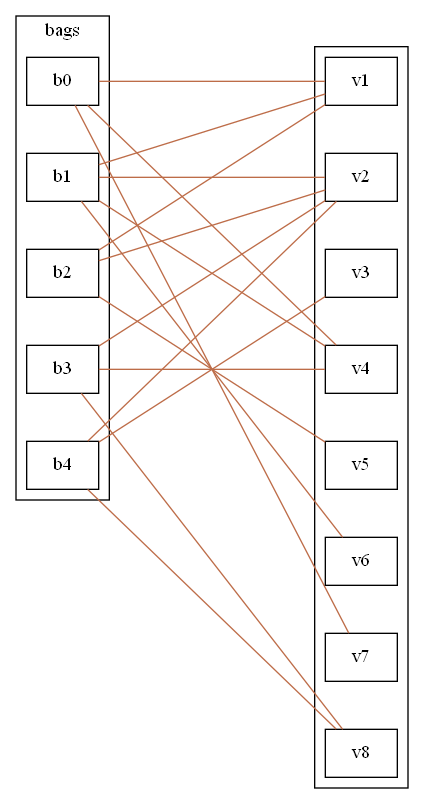
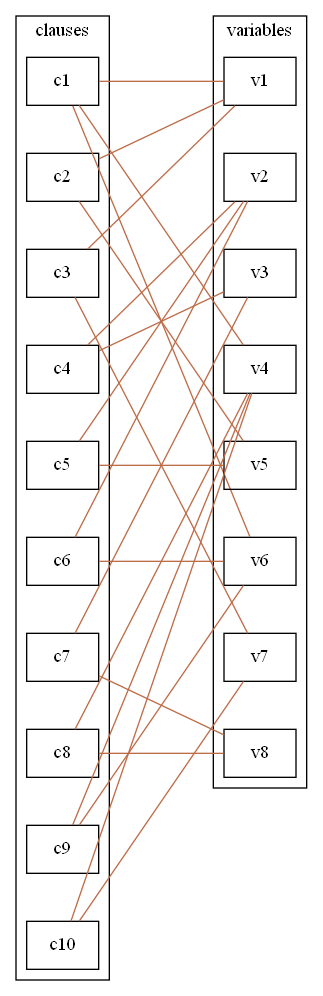
Clauses instead of bags - IMPORTANT
Mistakenly connected bags and variables instead of clauses- variables.

Simplified incidence creation

diff --git a/satvisualization_repo/satvisu/graphvizSatVisu.py b/satvisualization_repo/satvisu/graphvizSatVisu.py
@@ -13,6 +13,7 @@ from graphviz import Digraph, Graph
 import numpy as np
 import seaborn as sns
 
+
 def bagNode(head, tail, anchor="anchor", headcolor="white",
             tableborder=0, cellborder=0, cellspacing=0):
     """HTML format with 'head' as the first label, then appending
@@ -158,40 +159,36 @@ def main():
 
 
 def incidence():
-    
-    r_bags = 5
+
+    r_clause = 10
     r_vars = 8
-    bagtag = "b%d"
+    clausetag = "c%d"
     vartag = "v%d"
-    
-    k=list(sns.xkcd_rgb)
-    g = Graph(graph_attr={'splines': 'false'})
 
-    g.attr('node', shape='rect')
-    with g.subgraph(name='cluster_ibags', edge_attr={'style': 'invis'}) as ibags:
-        ibags.attr(label='bags')
-        # for bag in ['b0', 'b1', 'b2', 'b3', 'b4']:
-        #     ibags.node(bag, bag)
-        
-        ibags.edges([('b0', 'b1'), ('b1', 'b2'), ('b2', 'b3'), ('b3', 'b4')])
+    k = list(sns.xkcd_rgb)
+    g_incid = Graph(graph_attr={'splines': 'false'})
 
-    with g.subgraph(name='cluster_ivar', edge_attr={'style': 'invis'}) as ivars:
-        ibags.attr(label='variables')
-        # for var in ['v5', 'v1', 'v2', 'v3', 'v4', 'v6', 'v7', 'v8']:
-        #     ivars.node(var, var)
-        ivars.edges([('v1', 'v2'), ('v2', 'v3'), ('v3', 'v4'), ('v4', 'v5'),
-                     ('v5', 'v6'), ('v6', 'v7'), ('v7', 'v8')])
-    
-    g.attr('edge', constraint="false")
-    EDGELIST = [('b0', 'v1'), ('b0', 'v4'), ('b0', 'v7'),
-             ('b1', 'v2'), ('b1', 'v4'), ('b1', 'v1'), ('b1', 'v6'),
-             ('b2', 'v1'), ('b2', 'v2'), ('b2', 'v5'),
-             ('b3', 'v2'), ('b3', 'v4'), ('b3', 'v8'),
-             ('b4', 'v2'), ('b4', 'v3'), ('b4', 'v8')]
-    for edge in EDGELIST:
-        g.edge(edge[0], edge[1],  color=sns.xkcd_rgb[k[1]])
-    
-    g.render(view=True, format='png', filename='incidenceGraph')
+    g_incid.attr('node', shape='rect')
+    with g_incid.subgraph(name='cluster_clause', edge_attr={'style': 'invis'}) as clauses:
+        clauses.attr(label='clauses')
+        clauses.edges([(clausetag % (i + 1), clausetag % (i + 2))
+                       for i in range(r_clause - 1)])
+
+    with g_incid.subgraph(name='cluster_ivar', edge_attr={'style': 'invis'}) as ivars:
+        ivars.attr(label='variables')
+        ivars.edges([(vartag % (i + 1), vartag % (i + 2))
+                     for i in range(r_vars - 1)])
+
+    g_incid.attr('edge', constraint="false")
+    EDGELIST = [[1, [1, 4, 6]], [2, [1, 5]], [3, [1, 7]], [4, [2, 3]], [
+        5, [2, 5]], [6, [2, 6]], [7, [3, 8]], [8, [4, 8]], [9, [4, 6]], [10, [4, 7]]]
+    for clause in EDGELIST:
+        for var in clause[1]:
+            g_incid.edge(clausetag %
+                         clause[0], vartag %
+                         var, color=sns.xkcd_rgb[k[1]])
+
+    g_incid.render(view=True, format='png', filename='incidenceGraph')
 
 
 if __name__ == "__main__":

diff --git a/satvisualization_repo/satvisu/mpl_test.py b/satvisualization_repo/satvisu/mpl_test.py
@@ -1,0 +1,21 @@
+# -*- coding: utf-8 -*-
+"""
+Created on Tue Jan 28 18:52:35 2020
+
+@author: Martin
+"""
+
+import matplotlib.image as mpimg
+import matplotlib.pyplot as plt
+
+img=mpimg.imread("incidenceGraph.png")
+plt.axis("off")
+fig, (ax1, ax2) = plt.subplots(1, 2, figsize=(6,12), dpi=600, frameon=False, tight_layout=True)
+for elem in (ax1, ax2):
+    elem.axes.get_xaxis().set_visible(False)
+    elem.axes.get_yaxis().set_visible(False)
+print(fig.get_size_inches())
+ax1.imshow(img)
+ax2.imshow(mpimg.imread("g41Digraph.png"))
+
+plt.show()
